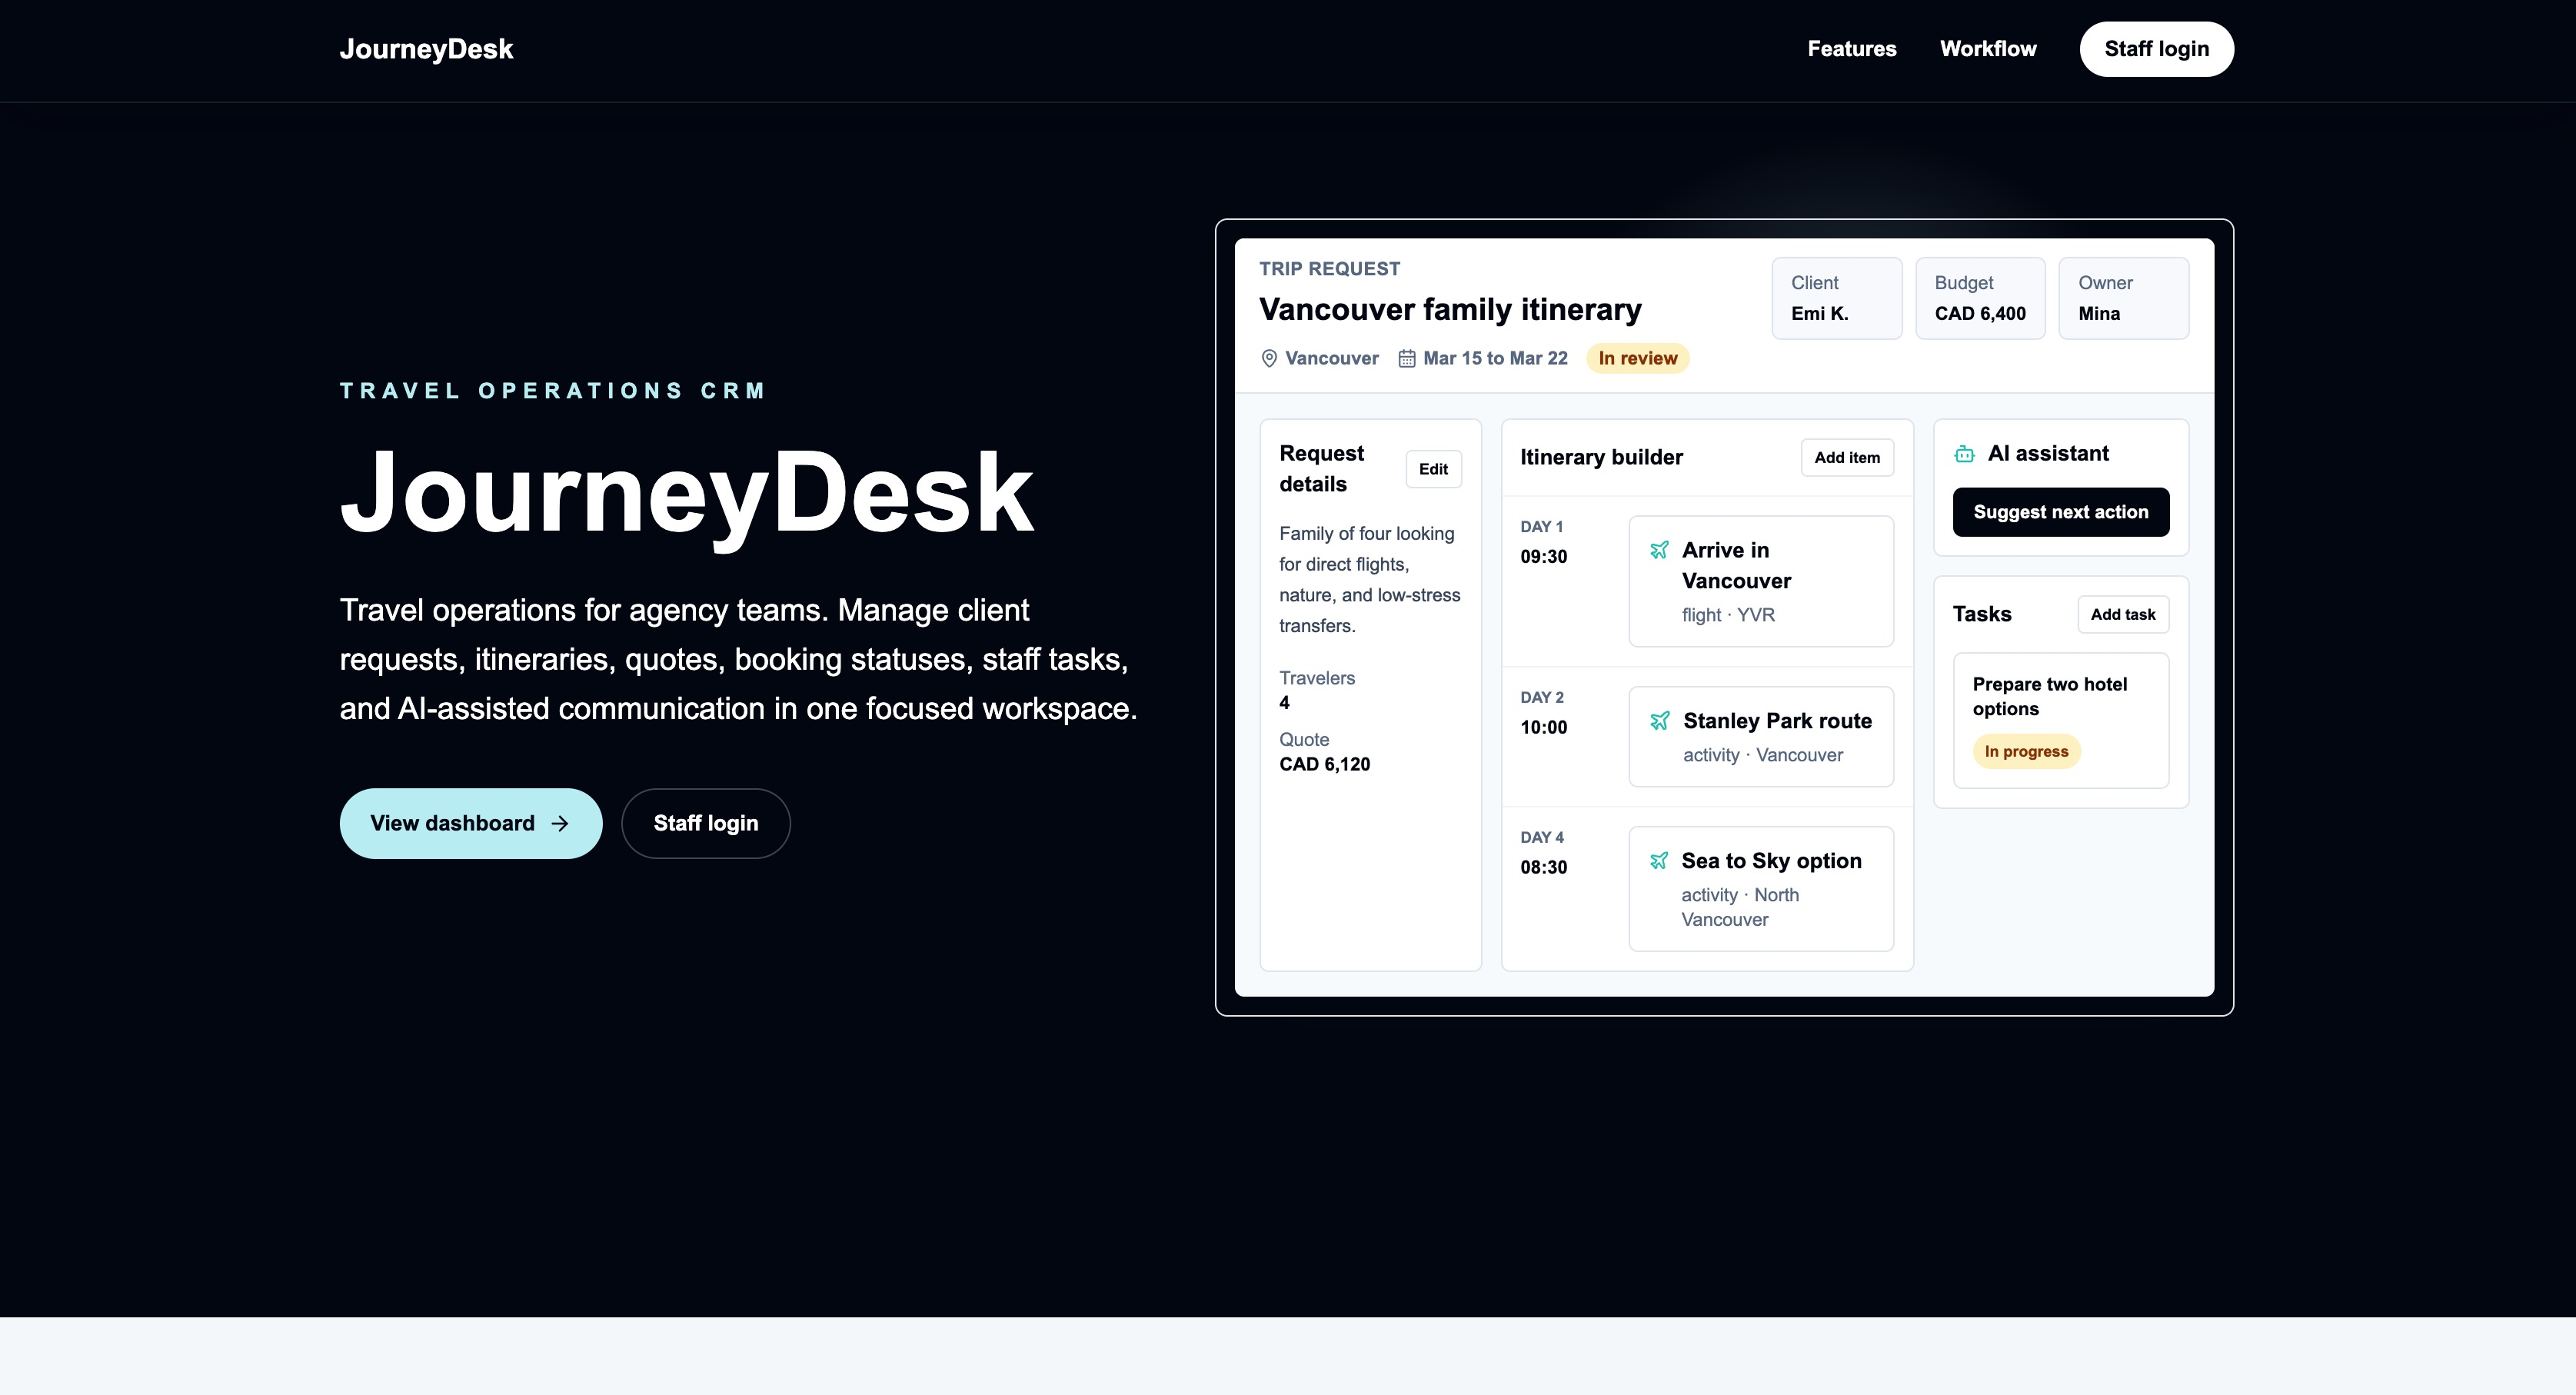
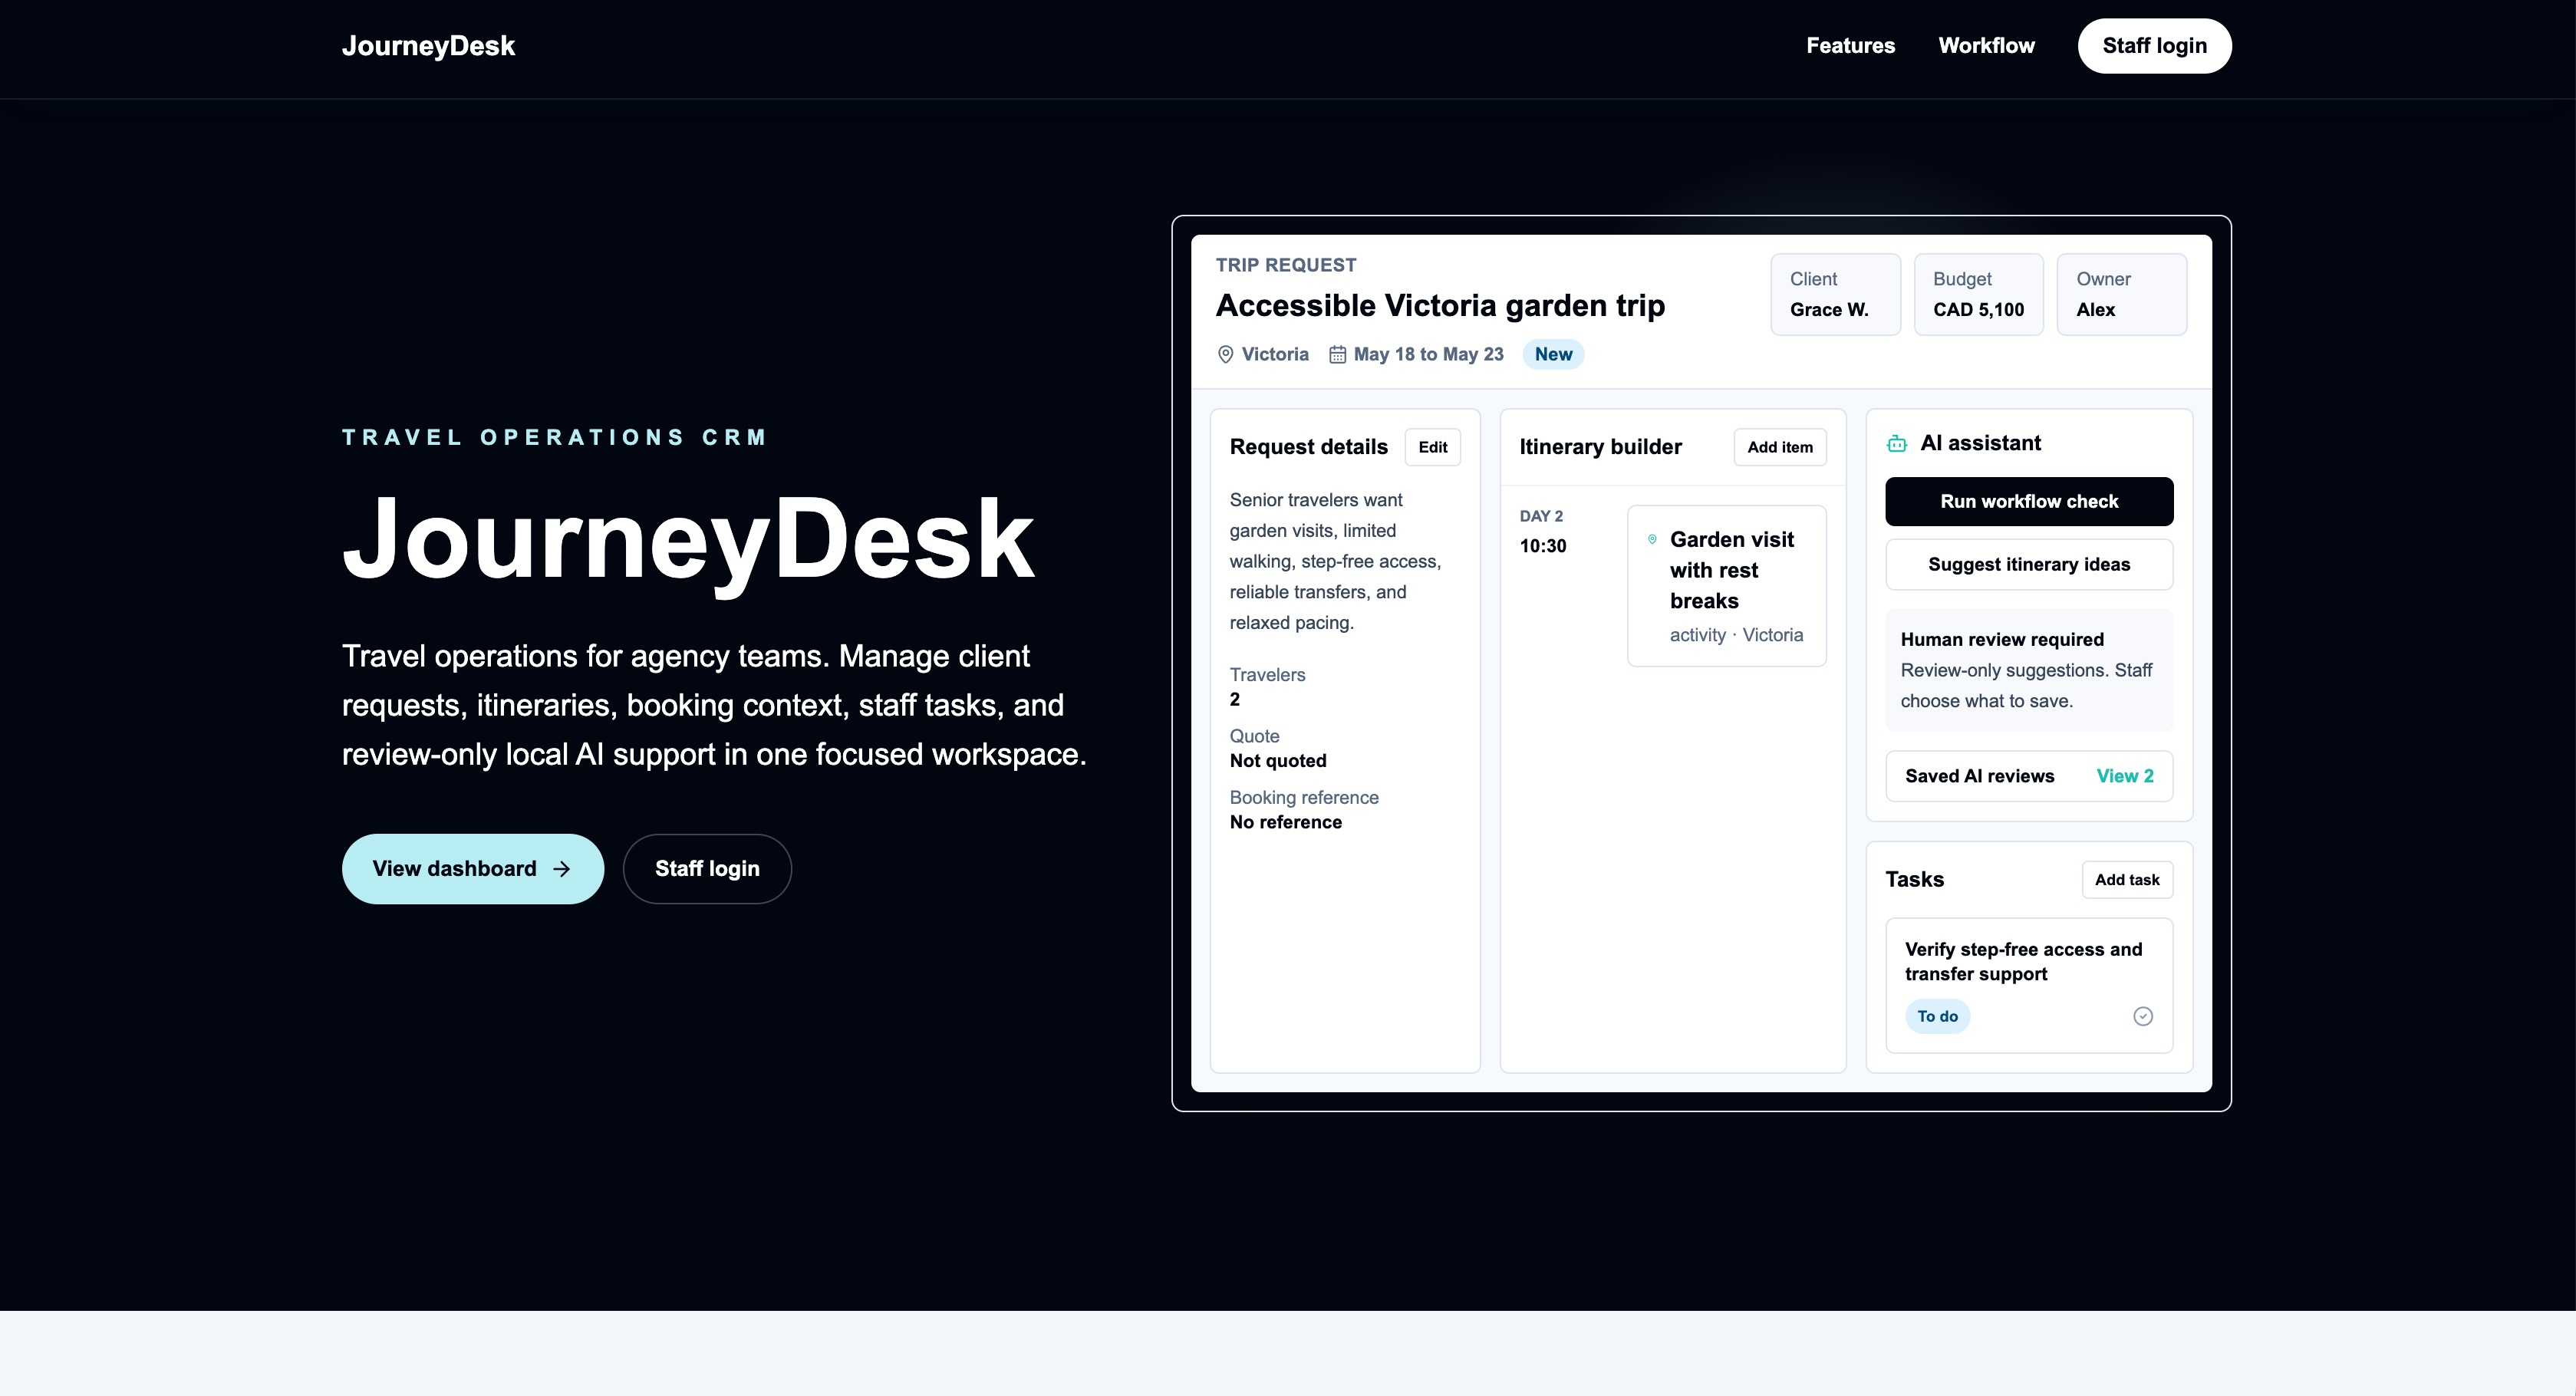
Update JourneyDesk portfolio case study

diff --git a/src/pages/JourneyDeskProject.js b/src/pages/JourneyDeskProject.js
@@ -5,30 +5,32 @@ import "./JourneyDeskProject.css";
 import landingHeroImg from "../assets/images/journeydesk_landing_hero.jpg";
 import dashboardImg from "../assets/images/journeydesk_dashboard_overview.jpg";
 import tripDetailImg from "../assets/images/journeydesk_trip_request_detail.jpg";
+import activityImg from "../assets/images/journeydesk_activity.jpg";
+import aiWorkflowImg from "../assets/images/journeydesk_ai_workflow_checker.jpg";
 import swaggerImg from "../assets/images/journeydesk_swagger_ui_light.jpg";
 
 const productPillars = [
   {
-    name: "Operations-First CRM",
+    name: "Travel Operations CRM",
     detail:
       "JourneyDesk is built for travel agency staff, not consumers. The interface centers client requests, owners, status, tasks, and operational context."
   },
   {
-    name: "Full-Stack TypeScript",
+    name: "V1 Full-Stack Foundation",
     detail:
-      "The project uses a separate Next.js frontend and Express API so the frontend, backend, REST contracts, validation, auth, and database layer are visible."
+      "V1 focused on learning and building the core product end to end with Next.js, Express, PostgreSQL, Prisma, authentication, REST APIs, Docker, and CI."
   },
   {
-    name: "Mock-First AI Assistance",
+    name: "V2 Local AI Assistant",
     detail:
-      "The AI panel is intentionally mock-first, with practical staff workflows like suggested next actions and draft client emails ready for a future AI provider."
+      "V2 adds Ollama-powered AI support for workflow checks and travel assistance while keeping suggestions review-only and under staff control."
   }
 ];
 
 const buildHighlights = [
-  "Next.js, React, TypeScript, Tailwind CSS, and Framer Motion for the frontend.",
-  "Node.js, Express, Prisma, PostgreSQL, JWT auth, role-scoped access, and activity logs for the backend.",
-  "Docker Compose, OpenAPI / Swagger documentation, README screenshots, and a clear portfolio presentation."
+  "V1 established the full-stack application structure: dashboard, clients, trip requests, itinerary builder, tasks, notes, activity logs, auth, and role-scoped API access.",
+  "V2 added a privacy-aware AI provider layer, Ollama integration, structured output validation, AI review drawer, saved reviews, and human-reviewed suggested tasks.",
+  "The project is documented with OpenAPI / Swagger, Docker Compose setup, seeded demo data, screenshots, and a focused README."
 ];
 
 const snapshots = [
@@ -52,6 +54,20 @@ const snapshots = [
     title: "Trip Request Workspace",
     description:
       "The main staff workspace: itinerary builder, request details, tasks, notes, activity timeline, and AI assistant."
+  },
+  {
+    image: aiWorkflowImg,
+    alt: "JourneyDesk AI workflow check drawer",
+    title: "AI Workflow Check",
+    description:
+      "A review-only AI panel that surfaces missing information, risks, next actions, draft follow-up, and suggested tasks for staff approval."
+  },
+  {
+    image: activityImg,
+    alt: "JourneyDesk activity audit trail",
+    title: "Activity Audit Trail",
+    description:
+      "An operational activity log with trip and date filters plus pagination for reviewing workflow history."
   },
   {
     image: swaggerImg,
@@ -126,22 +142,23 @@ function JourneyDeskProject() {
             <p className="section-kicker">Featured Case Study</p>
             <h1>JourneyDesk</h1>
             <p className="journeydesk-summary">
-              A full-stack travel operations CRM for agency teams.
+              A full-stack travel operations CRM with review-only local AI
+              assistance.
             </p>
             <p>
               JourneyDesk helps travel agency staff manage client requests,
               itineraries, booking status, tasks, notes, activity history, and
-              AI-assisted client communication in one focused operations
-              dashboard.
+              AI-assisted workflow review in one focused operations dashboard.
             </p>
             <p className="journeydesk-role">
               Role: product framing, UI/UX, full-stack implementation, API
-              design, relational modeling, and documentation.
+              design, relational modeling, local AI workflow, and documentation.
             </p>
             <div className="featured-tag-list journeydesk-tags">
               <span className="featured-tag">Next.js</span>
               <span className="featured-tag">Express API</span>
               <span className="featured-tag">PostgreSQL</span>
+              <span className="featured-tag">Ollama</span>
               <span className="featured-tag">OpenAPI</span>
             </div>
           </div>
@@ -174,7 +191,8 @@ function JourneyDeskProject() {
             consumer travel planning. Instead, it focuses on the operational
             work travel agents handle after a client inquiry arrives: tracking
             status, shaping itinerary details, assigning tasks, recording notes,
-            and keeping communication context visible.
+            keeping communication context visible, and using AI as a reviewed
+            staff support layer rather than an automatic operator.
           </p>
           <div className="role-grid">
             {productPillars.map((point) => (

diff --git a/src/pages/Projects.js b/src/pages/Projects.js
@@ -54,11 +54,11 @@ const featuredProjects = [
     mediaClassName: "",
     title: "JourneyDesk",
     description:
-      "A full-stack travel operations CRM for agency teams, combining client requests, itinerary management, booking status, staff tasks, activity logs, and mock-first AI assistance.",
+      "A full-stack travel operations CRM for agency teams. V1 established the Next.js, Express, and PostgreSQL foundation; V2 adds a review-only local AI Assistant with Ollama.",
     detailLink: "/projects/journeydesk",
-    tags: ["Full-Stack TypeScript", "Operations CRM", "Case Study"],
-    stack: ["nextjs", "typescript", "node", "express", "postgres", "prisma", "docker", "openapi"],
-    role: "Product Framing / UI / Full-Stack Implementation / API Design",
+    tags: ["Full-Stack TypeScript", "Local AI Assistant", "Case Study"],
+    stack: ["nextjs", "typescript", "node", "express", "postgres", "prisma", "docker", "openapi", "ollama"],
+    role: "Product Framing / UI / Full-Stack Implementation / Local AI Workflow",
   },
   {
     id: "open-collection-ios",